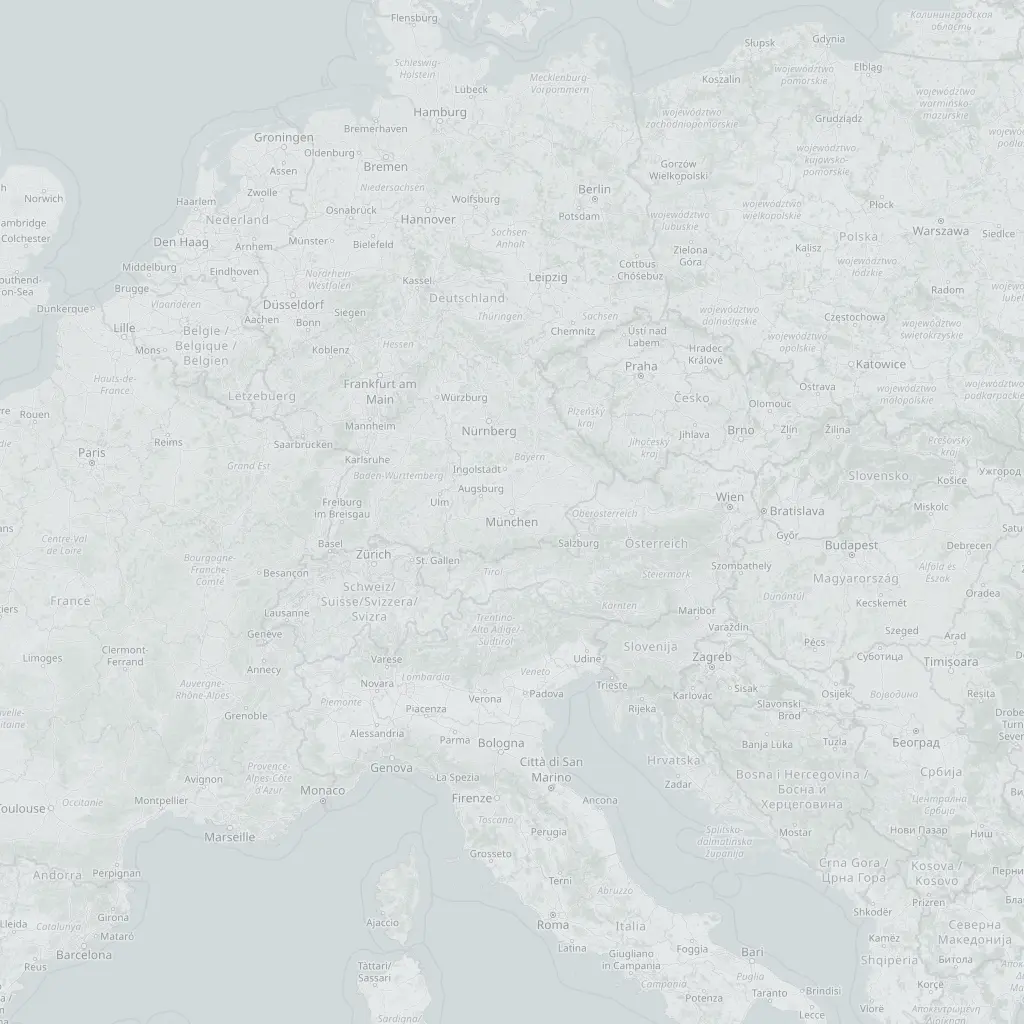
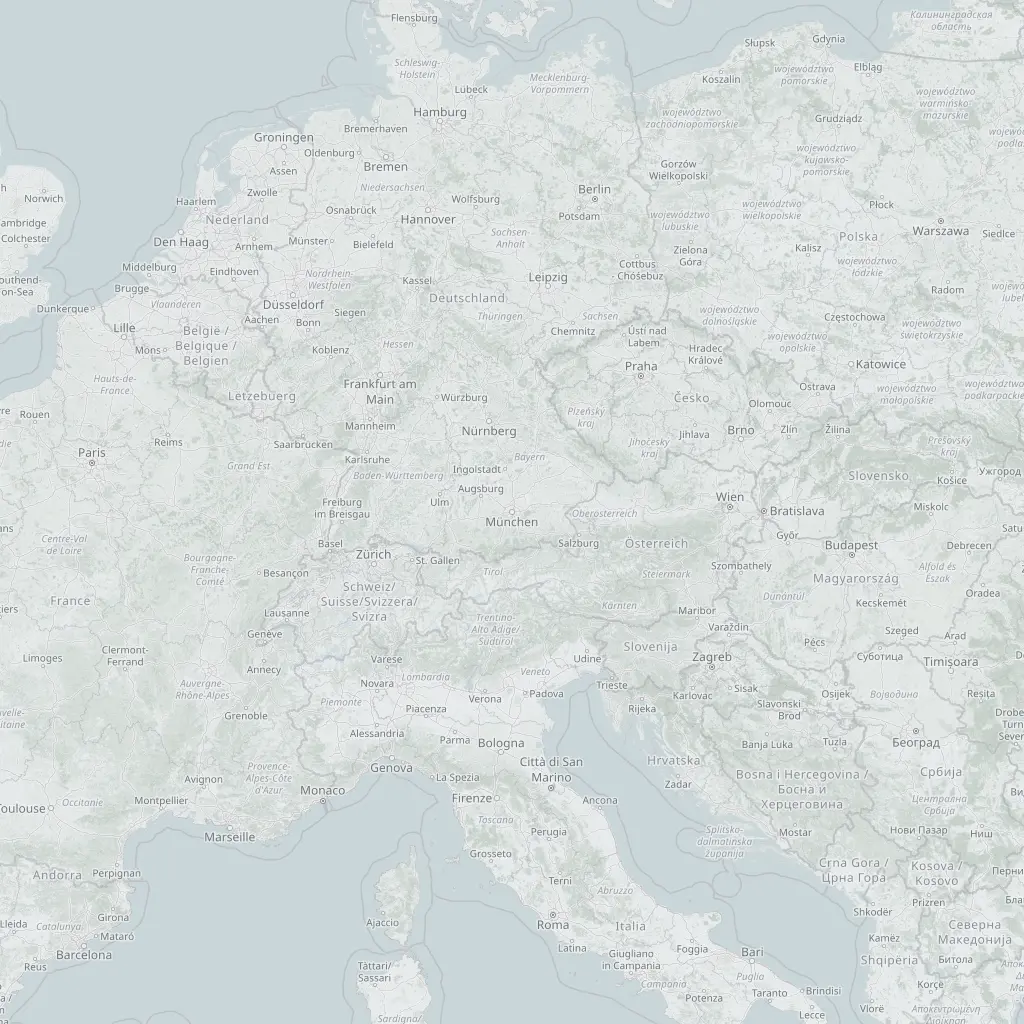
feat(site): move the hero transport to the map corner, lift the basemap
- The chapter caption and transport controls now sit in the map's
  bottom-right corner on wide heroes, right-aligned above the OpenStreetMap
  attribution. Below 901px they return to the content flow.
- The basemap reads much more strongly: the alpha mask's base wash and its
  openings over Munich, Berlin and Vienna are both raised, the layer mask
  extends further before fading, layer opacity goes to full, and the asset is
  re-tinted with more contrast.
- Removes the lab-only banner from the home hero. The posture is still
  carried by the hero stat strip, humans.txt, ai.txt, and the MaturityStatus
  block on the protocol, platform and What is LOOP pages.

diff --git a/public/assets/css/site.css b/public/assets/css/site.css
@@ -6121,7 +6121,6 @@ a.card h3:not(.card-title) {
    ========================================================================== */
 .loop-anim {
   width: 100%;
-  max-width: 560px;
   margin: 0;
   text-align: left;
 }
@@ -6134,15 +6133,14 @@ a.card h3:not(.card-title) {
   overflow: hidden;
   pointer-events: none;
   /* Fade the render out toward the page edges so it never ends on a seam. */
-  mask-image: radial-gradient(120% 105% at 62% 48%, #000 40%, transparent 86%);
-  /* Keep the hero copy dominant; this is scenery, not the subject. */
-  opacity: 0.9;
+  mask-image: radial-gradient(135% 118% at 62% 48%, #000 52%, transparent 94%);
+  opacity: 1;
 }
 
 @media (max-width: 900px) {
   .hero-anim-layer {
-    mask-image: radial-gradient(135% 85% at 50% 62%, #000 38%, transparent 84%);
-    opacity: 0.75;
+    mask-image: radial-gradient(150% 95% at 50% 60%, #000 46%, transparent 90%);
+    opacity: 0.9;
   }
 }
 
@@ -6154,8 +6152,8 @@ a.card h3:not(.card-title) {
 
 .hero-anim-credit {
   position: absolute;
-  right: 10px;
-  bottom: 8px;
+  right: 12px;
+  bottom: 10px;
   pointer-events: auto;
   font-size: 0.62rem;
   letter-spacing: 0.02em;
@@ -6171,9 +6169,30 @@ a.card h3:not(.card-title) {
 
 .hero-figure {
   position: relative;
-  z-index: 2;
+  z-index: 3;
   width: 100%;
   margin-top: var(--space-8);
+}
+
+/* On a wide hero the transport sits in the map's bottom-right corner, just
+   above the basemap attribution. */
+@media (min-width: 901px) {
+  .hero-figure {
+    position: absolute;
+    right: var(--gutter);
+    bottom: var(--space-8);
+    width: min(430px, 40vw);
+    margin-top: 0;
+  }
+
+  .hero-figure .loop-anim-caption {
+    justify-content: flex-end;
+    text-align: right;
+  }
+
+  .hero-figure .loop-anim-controls {
+    justify-content: flex-end;
+  }
 }
 
 .loop-anim-caption {

diff --git a/app/components/loopScene.js b/app/components/loopScene.js
@@ -81,8 +81,8 @@ function mapAlphaTexture(focus) {
 
   // global falloff so the sheet never ends on a hard edge
   const base = ctx.createRadialGradient(size / 2, size / 2, size * 0.06, size / 2, size / 2, size / 2);
-  base.addColorStop(0, 'rgba(255,255,255,0.4)');
-  base.addColorStop(0.62, 'rgba(255,255,255,0.16)');
+  base.addColorStop(0, 'rgba(255,255,255,0.82)');
+  base.addColorStop(0.6, 'rgba(255,255,255,0.46)');
   base.addColorStop(1, 'rgba(255,255,255,0)');
   ctx.fillStyle = base;
   ctx.fillRect(0, 0, size, size);
@@ -219,11 +219,11 @@ export function createLoopScene({ mount, chapterSeconds, chapterCount }) {
   // Alpha falloff so the basemap dissolves into the backdrop instead of
   // ending on a hard rectangular edge.
   const groundAlpha = keep(mapAlphaTexture([
-    [CITY_PX.Munich[0], CITY_PX.Munich[1], 0.62, 0.16],
-    [CITY_PX.Berlin[0], CITY_PX.Berlin[1], 0.55, 0.15],
-    [CITY_PX.Vienna[0], CITY_PX.Vienna[1], 0.55, 0.15],
+    [CITY_PX.Munich[0], CITY_PX.Munich[1], 0.95, 0.2],
+    [CITY_PX.Berlin[0], CITY_PX.Berlin[1], 0.85, 0.19],
+    [CITY_PX.Vienna[0], CITY_PX.Vienna[1], 0.85, 0.19],
     // the corridor the transfer actually travels
-    [(CITY_PX.Munich[0] + CITY_PX.Berlin[0]) / 2, (CITY_PX.Munich[1] + CITY_PX.Berlin[1]) / 2, 0.3, 0.16],
+    [(CITY_PX.Munich[0] + CITY_PX.Berlin[0]) / 2, (CITY_PX.Munich[1] + CITY_PX.Berlin[1]) / 2, 0.5, 0.2],
   ]));
   const mapTex = keep(new THREE.TextureLoader().load('/assets/loop-basemap.webp'));
   mapTex.colorSpace = THREE.SRGBColorSpace;

diff --git a/app/page.jsx b/app/page.jsx
@@ -4,7 +4,6 @@ import { Card } from './components/ui/Card';
 import { CardGrid } from './components/ui/CardGrid';
 import { LoopHeroAnimation } from '@/app/components/LoopHeroAnimation';
 import { KeyConceptsShowcase } from './components/KeyConceptsShowcase';
-import { MaturityStatus } from './components/MaturityStatus';
 import { createMetadata } from './config/metadata';
 
 export const metadata = createMetadata({
@@ -37,7 +36,6 @@ export default function HomePage() {
             An open protocol for cities to discover, exchange, and trace material and product
             flows across city boundaries.
           </p>
-          <MaturityStatus className="hero-maturity">Lab demo only — draft schemas and controlled demonstrations, no public pilots or production deployments.</MaturityStatus>
           <div className="hero-actions">
             <a className="button primary" href="/protocol/what-is-loop/">
               <i className="ph-bold ph-lightbulb" aria-hidden="true"></i>
